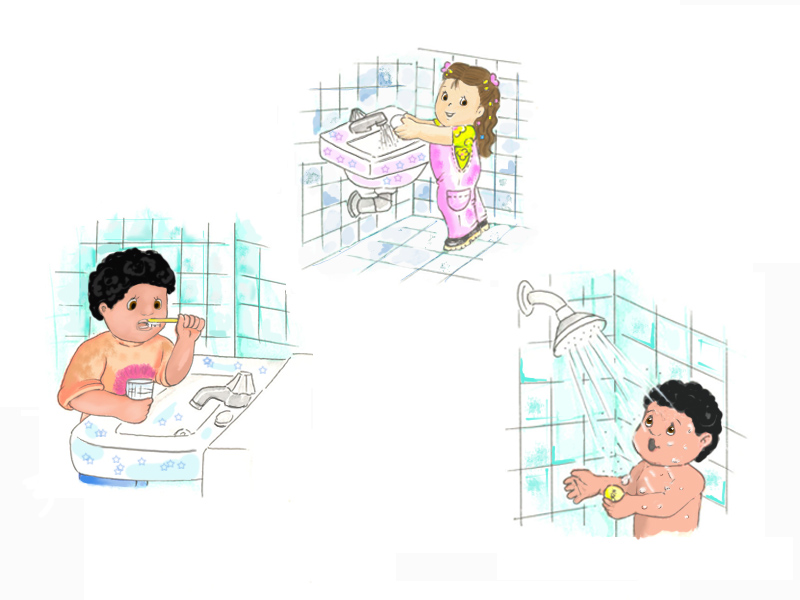
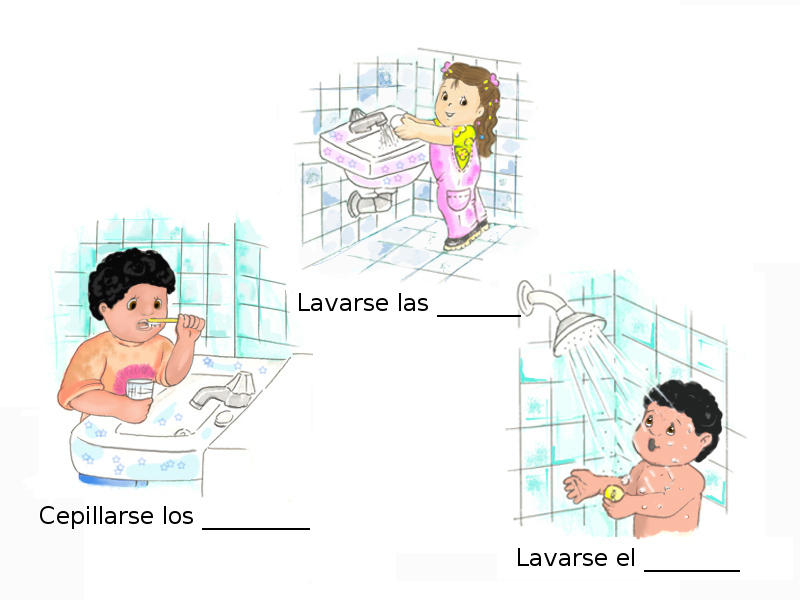
Se arreglan errores en la actividad 6 (healthy.py)
* Se cambian las imagenes de fondo por otras con las oraciones y su el
  espacio en blanco hasta el que se deben arrastrar las palabras
  correctas
* Se cambian las oraciones a arrastrar por palabras
* Se arregla el error que permitia mover palabras que ya estaba
  colocadas correctamente
* Ahora las palabras colocadas correctamente se mantienen al cambiar la
  pagina de la actividad
* Ahora la palabra selecionada se dibuja por encima de las iamgenes de check
* Se mejora la movilidad del cursor
* Se agregan los sonidos de retroalimentacion a la actividad
* Se eliminan algunas lineas de cogido innecesarias

diff --git a/src/healthy.py b/src/healthy.py
@@ -20,11 +20,11 @@ class textLine(Sprite):
         self.image, self.rect = common.load_image(image_name)
         self.size_x, self.size_y = self.image.get_size()
         self.rect.move_ip(pos)
+        self.orig_x, self.orig_y = pos
         self.name = textline
 		
     def update(self, pos):
-        self.rect.x = pos[0]
-        self.rect.y = pos[1]
+        self.rect.x, self.rect.y = pos
 
 
 class Hand(Sprite):
@@ -46,22 +46,19 @@ class Hand(Sprite):
             self.color = 0
 
     def update(self, mover=(0,0)):
-        if mover[0] - 10 >= 0:
-            self.rect.x = mover[0]
-        if mover[1] - 15 >= 0:
-            self.rect.y = mover[1]
+        self.rect.x, self.rect.y = mover
         if self.color == 0:
             self.image = self.normal
         if self.color == 1:
             self.image = self.close
 
 
-class correct(Sprite):
+class check(Sprite):
     def __init__(self, pos=(0,0)):
         Sprite.__init__(self)
-        self.path_correct = os.path.join(constants.data_folder, \
-                'healthy', "correct.png")
-        self.image, self.rect = common.load_image(self.path_correct)
+        self.path_check = os.path.join(constants.data_folder, \
+                'healthy', "check.png")
+        self.image, self.rect = common.load_image(self.path_check)
         self.rect.move_ip(pos)
 
 
@@ -103,17 +100,12 @@ class View():
         else:
             self.background = self.back1
 
-    def grouptextlines(self, pos_textlines):
-        textlines = pygame.sprite.Group()
-        for name in pos_textlines:
-            textlines.add([textLine(name, pos_textlines[name])])
-        return textlines
+
 
 
 class Healthy(Activity):
     def __init__(self, screen):
         Activity.__init__(self, screen)
-        self.selection = None
 
     def instruction_text(self):
         font_title = pygame.font.SysFont("dejavusans", 40)
@@ -136,15 +128,20 @@ class Healthy(Activity):
             self.screen.blit(text, text_pos)
 
     def setup(self):
+        self.cont = None
+        self.selection = None
         self.sprites  = pygame.sprite.OrderedUpdates()
         self.pos_textlines1 = {'study': (50, 90), 'eat': (50, 140), \
-                'sport': (50, 115)}
-        self.pos_textlines2 = {'brush': (50,90), 'wash': (50, 115), \
-                'shower': (50,140)}
+                'sports': (50, 115)}
+        self.pos_textlines2 = {'teeth': (50,90), 'hands': (50, 115), \
+                'body': (50,140)}
         self.pos_textlines = self.pos_textlines1
         # list of all textlines and positions on the screen
-        self.correctlines1 = ['study', 'eat', 'sport']
-        self.correctlines2 = ['brush', 'wash', 'shower']
+        self.correctlines1 = ['study', 'eat', 'sports']
+        self.correctlines2 = ['teeth', 'hands', 'body']
+        self.correct1 = [0, 0, 0]
+        self.correct2 = [0, 0, 0]
+        self.correct = self.correct1
         self.correctlines = self.correctlines1
         self.view = View() #load static background
         self.hand = Hand() #load hand
@@ -152,12 +149,14 @@ class Healthy(Activity):
         self.change.add([changeButtons()]) #load next and prev buttons
         self.icons = pygame.sprite.Group()
         self.icons.add([Icons('stop')])
-        self.correct = pygame.sprite.Group()
-        self.textlines = self.view.grouptextlines(self.pos_textlines1)
-        self.containers1 = [pygame.Rect(70, 555, 250, 40), \
-                pygame.Rect(240, 285, 250, 40), pygame.Rect(510, 515, 250, 40)]
-        self.containers2 = [pygame.Rect(50, 495, 250, 40), \
-                pygame.Rect(285, 280, 250, 40), pygame.Rect(500, 535, 250, 40)]
+        self.checked = pygame.sprite.Group()
+        self.textlines = pygame.sprite.Group()
+        for name in self.pos_textlines:
+            self.textlines.add([textLine(name, self.pos_textlines[name])])
+        self.containers1 = [pygame.Rect(146, 562, 95, 25), \
+                pygame.Rect(307, 288, 78, 25), pygame.Rect(640, 525, 101, 25)]
+        self.containers2 = [pygame.Rect(214, 503, 84, 25), \
+                pygame.Rect(441, 292, 73, 25), pygame.Rect(652, 550, 79, 25)]
         self.containers = self.containers1
         self.sprites = pygame.sprite.OrderedUpdates()
         self.sprites.add([self.icons, self.textlines, self.change, self.hand])
@@ -167,10 +166,12 @@ class Healthy(Activity):
         self.sprites.draw(self.screen)
         self.instruction_text()
         pygame.display.update()
+        pygame.event.clear()
 
     def handle_events(self):
         for event in self.get_event():
             pos = pygame.mouse.get_pos()
+            self.hand.update(pos)
             if event.type == QUIT:
                 self.quit = True
                 return
@@ -188,26 +189,39 @@ class Healthy(Activity):
                     self.quit = True
                     return
                 if pygame.sprite.spritecollideany(self.hand, self.change):
+                    self.sprites.empty()
+                    self.sprites.add([self.icons, self.change])
                     self.view.update()
                     self.change.update()
+                    self.checked.empty()
+                    self.textlines.empty()
                     if self.correctlines == self.correctlines1:
                         self.pos_textlines = self.pos_textlines2
                         self.correctlines = self.correctlines2
                         self.containers = self.containers2
+                        self.correct = self.correct2
                     else:
                         self.pos_textlines = self.pos_textlines1
                         self.correctlines = self.correctlines1
                         self.containers = self.containers1
-                    self.sprites.remove([self.textlines, self.correct, \
-                            self.hand])
-                    self.correct.empty()
-                    self.textlines = self.view.grouptextlines(self.pos_textlines)
-                    self.sprites.add([self.textlines, self.hand])
+                        self.correct = self.correct1
+                    for i in range(0,3):
+                        if self.correct[i] == 1:
+                            left, top, width, height = self.containers[i]
+                            self.auxtextline = textLine(self.correctlines[i], \
+                                    (left, top))
+                            self.checked.add([check((left + (width \
+                                    /2) - 25, top - 150))])
+                            self.textlines.add([self.auxtextline])
+                        if self.correct[i] == 0:
+                            self.textlines.add([textLine(self.correctlines[i], \
+                                    self.pos_textlines[self.correctlines[i]])])
+                    self.sprites.add([self.textlines, self.checked])
                 self.hand.change_hand()
-                self.hand.update()
+                self.hand.update(pos)
             if event.type == MOUSEBUTTONUP:
                 self.hand.change_hand()
-                self.hand.update()
+                self.hand.update(pos)
             if event.type == MOUSEBUTTONUP and self.selection:
                 self.button_down = 0
                 textline_in_container = \
@@ -215,26 +229,43 @@ class Healthy(Activity):
                 if textline_in_container:
                     if self.selection.name == \
                             self.correctlines[textline_in_container[0]]:
-                                left, top, width, height = self.containers[textline_in_container[0]]
+                                left, top, width, height = \
+                                        self.containers[textline_in_container[0]]
+                                self.selection.kill()
+                                self.selection.add(self.sprites)
                                 self.selection.rect = \
-                                pygame.Rect(left + (width - \
-                                self.selection.size_x)/2, top + (height - \
-                                self.selection.size_y)/2, 0, 0)
-                                self.correct.add([correct((left + (width \
+                                        pygame.Rect(left + (width - \
+                                        self.selection.size_x)/2, top + (height - \
+                                        self.selection.size_y)/2, 0, 0)
+                                self.correct[textline_in_container[0]] = 1
+                                self.checked.add([check((left + (width \
                                         /2) - 25, top - 150))])
-                                self.sprites.remove([self.hand])
-                                self.sprites.add([self.correct, self.hand])
+                                self.sprites.add([self.checked])
                     else:
-                        pass
+                        self.selection.update((self.selection.orig_x, self.selection.orig_y))
                 else:
+                    self.selection.update((self.selection.orig_x, self.selection.orig_y))
                     self.selection.color = 0
-                    self.selection.update(pos)
             if event.type == MOUSEBUTTONDOWN:
                 self.selection = pygame.sprite.spritecollideany(self.hand, \
                         self.textlines)
                 if self.selection:
                     self.selection.color = 1
                     self.button_down = 1
+                    self.selection.remove(self.sprites)
+                    self.selection.add(self.sprites)
+            if self.cont != 6:
+                self.cont = 0
+            if self.cont == 0:
+                for i in range(0,3):
+                    if self.correct1[i] == 1:
+                        self.cont = self.cont + 1
+                    if self.correct2[i] == 1:
+                        self.cont = self.cont + 1
+            if self.cont == 6:
+                self.finished_ = True
+            self.hand.remove(self.sprites)
+            self.hand.add(self.sprites)
             self.screen.blit(self.view.background, (0,0))
             self.instruction_text()
             self.sprites.draw(self.screen)

diff --git a/src/missing.py b/src/missing.py
@@ -73,13 +73,13 @@ class correct(Sprite):
                 'missing', "correct.png")
         self.image, self.rect = common.load_image(self.path_correct)
         self.rect.move_ip(pos)
-        self.selection = None
 
 
 class Missing(Activity):
     def __init__(self, screen):
         Activity.__init__(self, screen)
         self.background = common.load_image(constants.illustration_001)[0]
+        self.selection = None
 
     def groupbodyparts(self, pos_bodyparts):
         bodyparts = pygame.sprite.Group()
